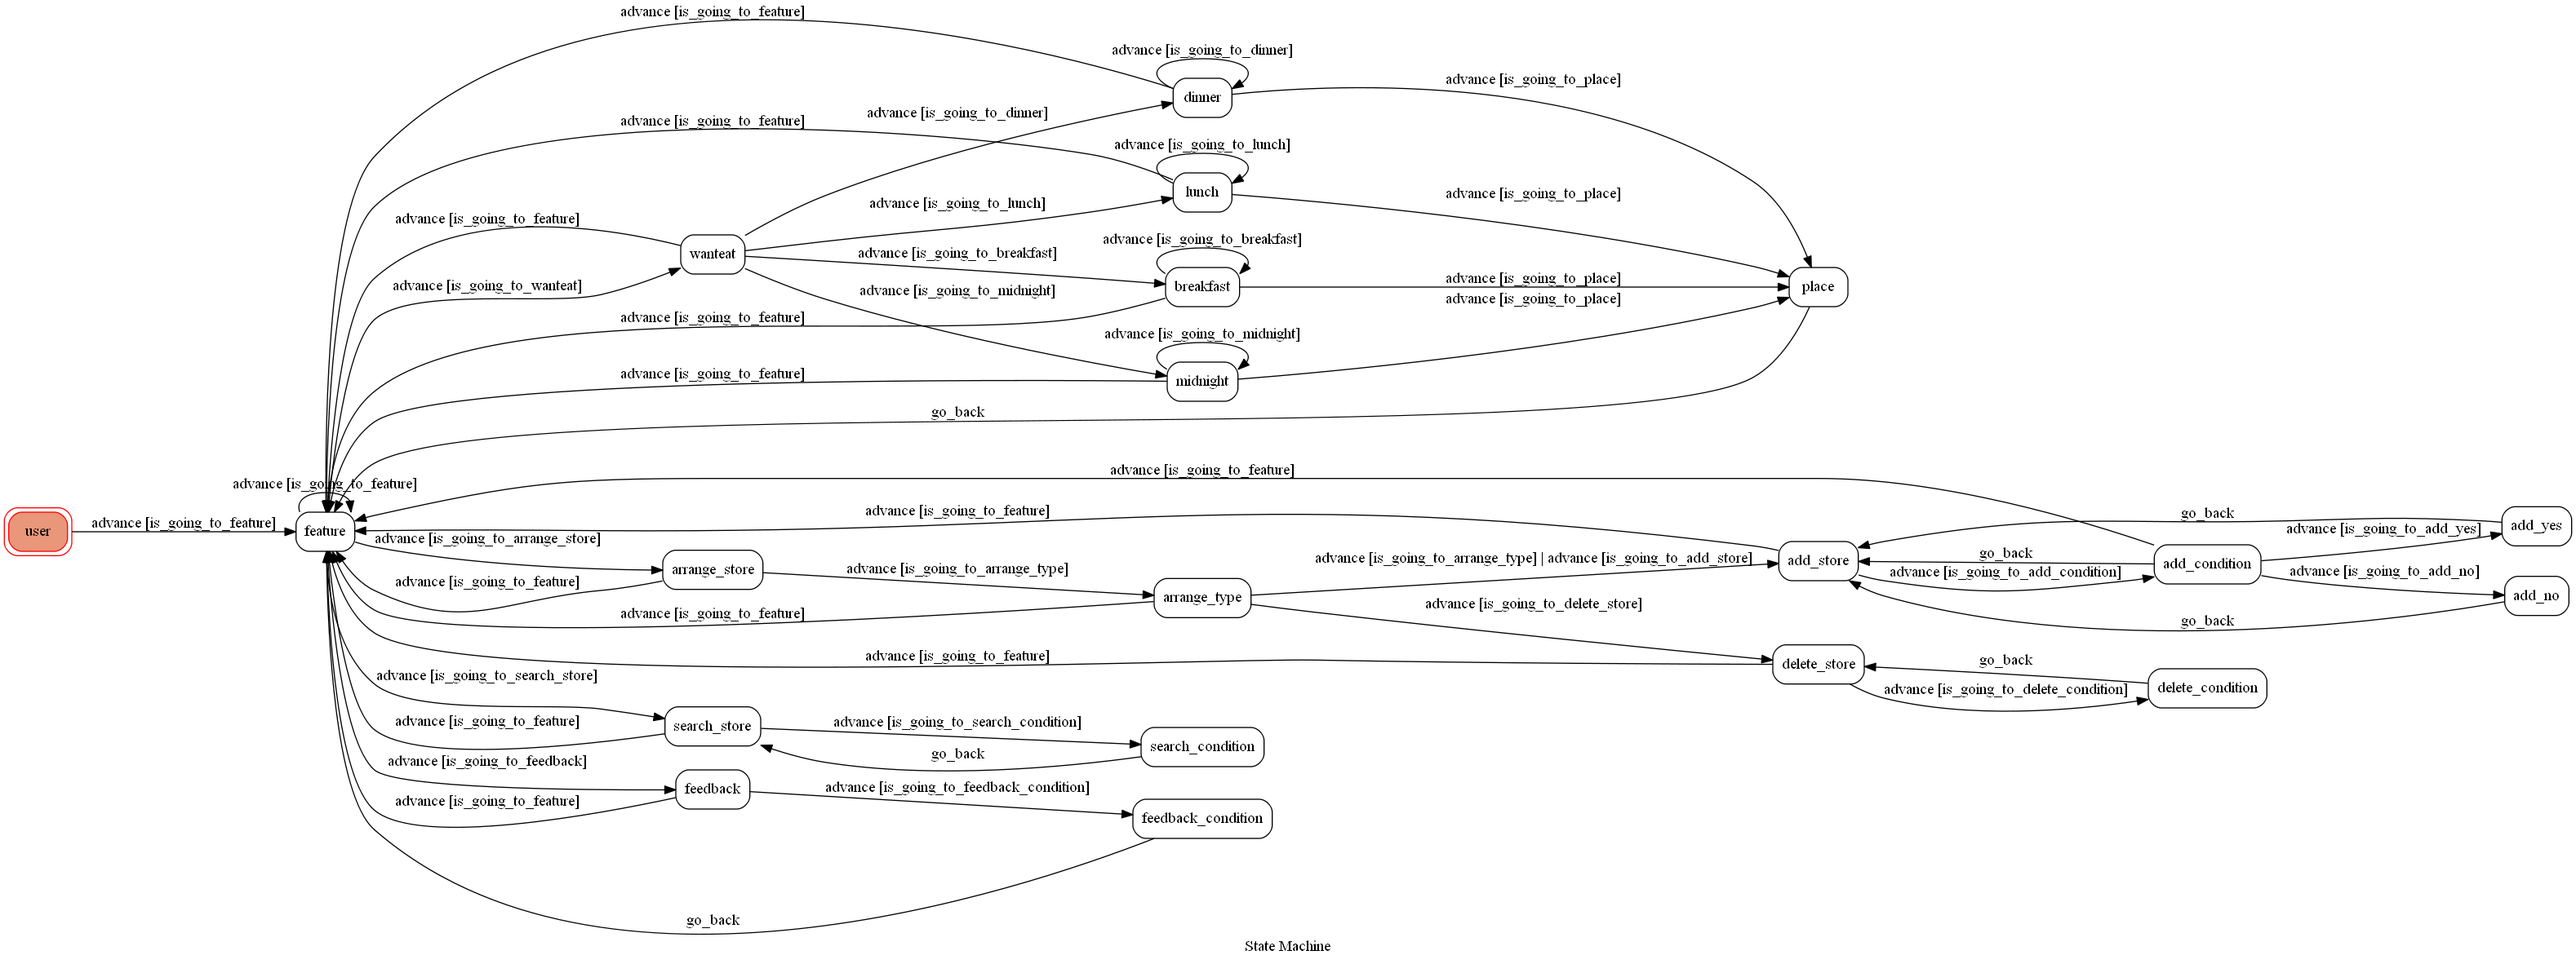
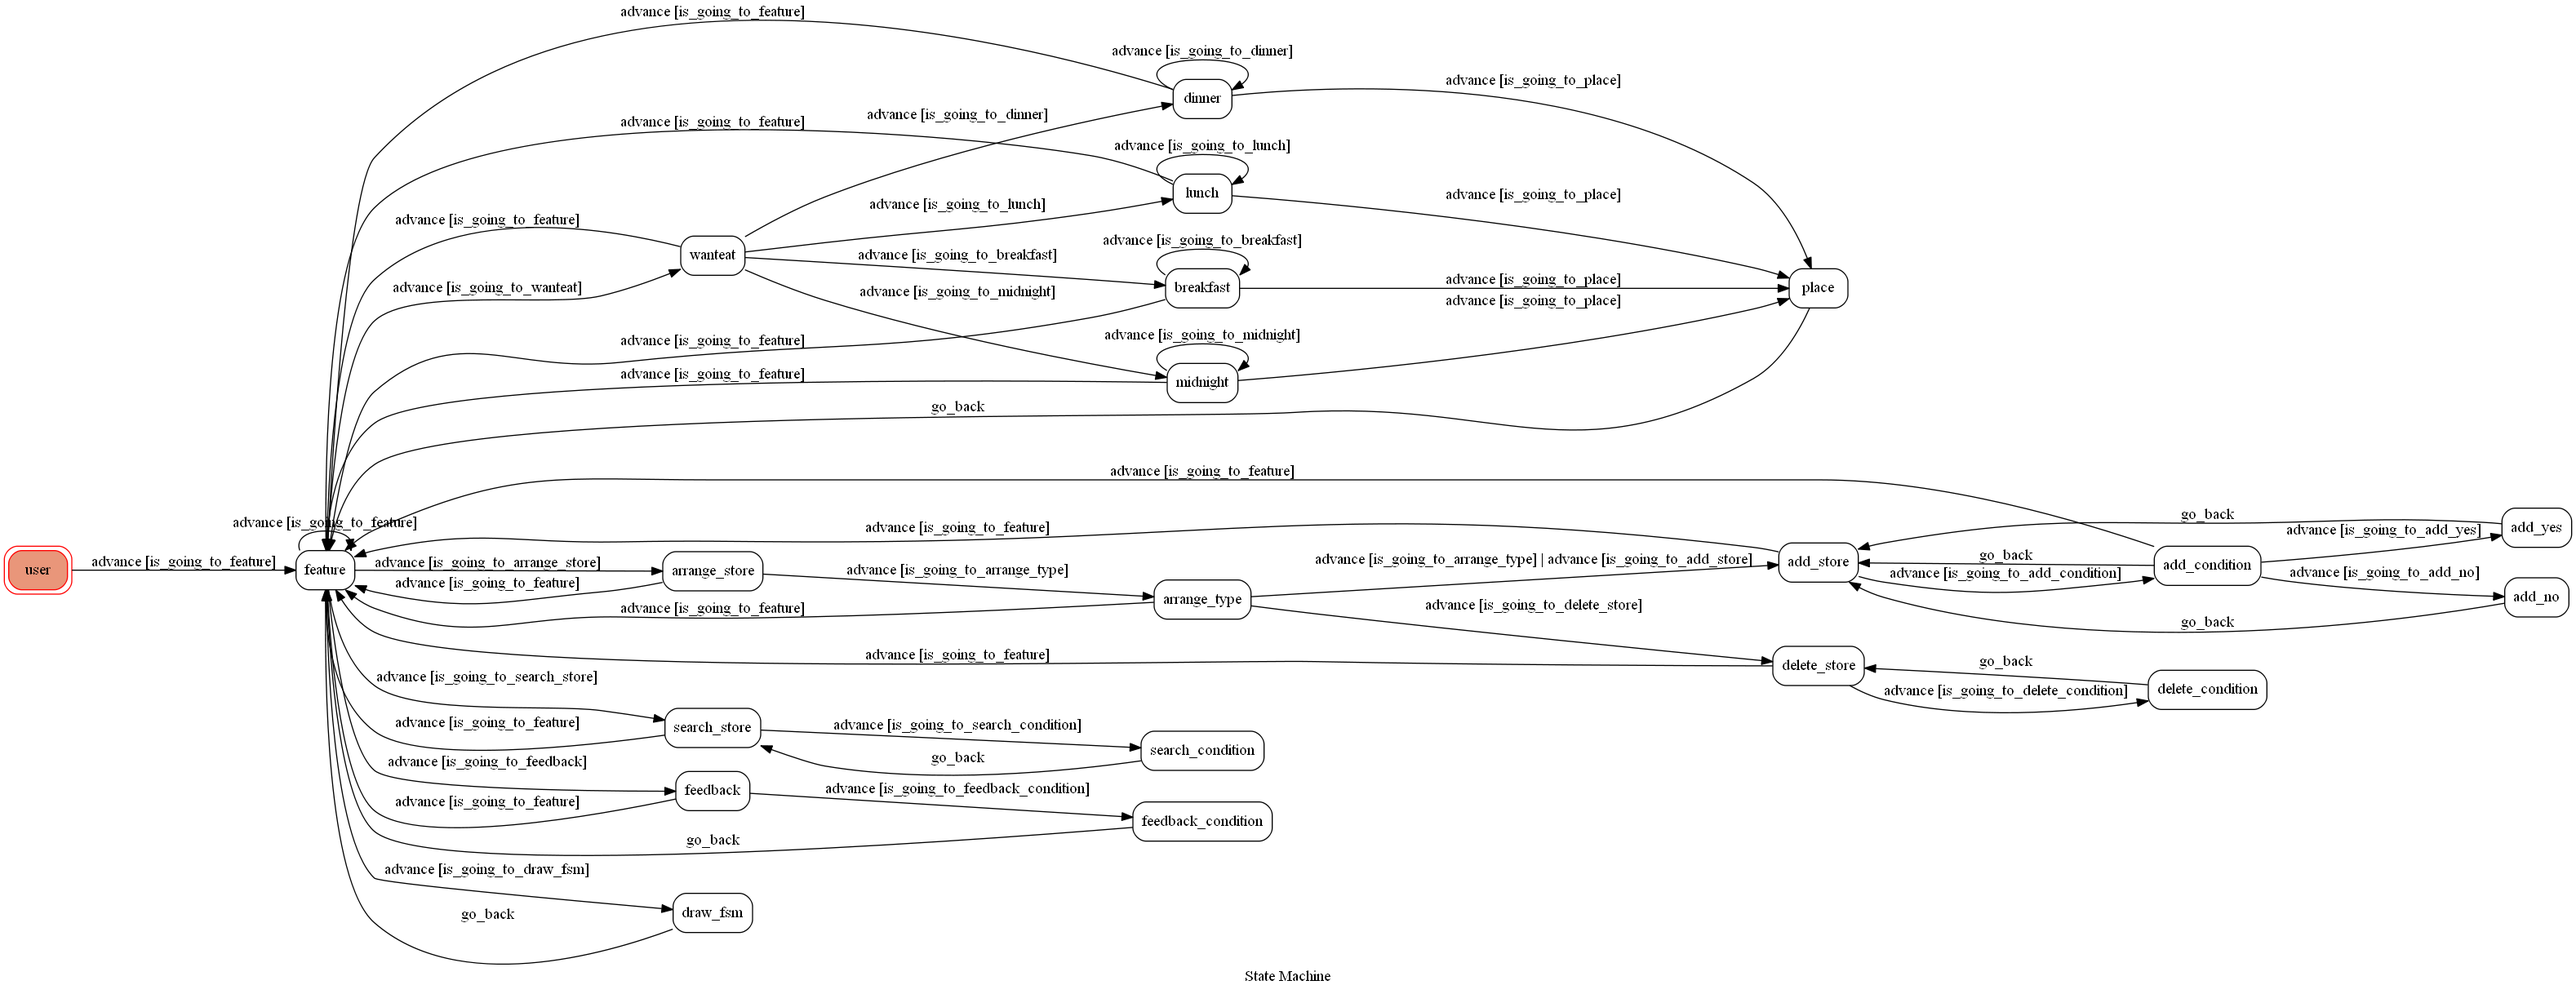
complete 2019.12.09

diff --git a/fsm.py b/fsm.py
@@ -1,7 +1,7 @@
 from transitions.extensions import GraphMachine
 import os
 from linebot import LineBotApi, WebhookParser
-from linebot.models import TemplateSendMessage, ImageCarouselTemplate, ImageCarouselColumn, MessageTemplateAction, ButtonsTemplate, ConfirmTemplate, TextSendMessage
+from linebot.models import TemplateSendMessage, ImageCarouselTemplate, ImageCarouselColumn, MessageTemplateAction, ButtonsTemplate, ConfirmTemplate, TextSendMessage, ImageSendMessage
 
 from utils import send_text_message
 from utils import send_button_message
@@ -39,7 +39,7 @@ arrange_type = -1
 want_add_text = ""
 want_delete_text = ""
 wand_search_text = ""
-
+feedback_text = ""
 class TocMachine(GraphMachine):
     def __init__(self, **machine_configs):
         self.machine = GraphMachine(model=self, **machine_configs)
@@ -48,12 +48,12 @@ class TocMachine(GraphMachine):
         global sheet2
         text = event.message.text
         print(text)
-        sheet2.append_row([event.source.user_id, get_time(), text, 0,self.state])
+        #sheet2.append_row([event.source.user_id, get_time(), text, 0,self.state])
         return text.lower() == "start" or text.lower() == "返回主選單"
 
     def on_enter_feature(self, event):
         print("I'm entering feature")
-        global sheet, sheet2, multi_user_id, multi_user_breakfast, multi_user_lunch, multi_user_dinner, multi_user_midnight, multi_user_randold,multi_user_store_choosed
+        global sheet2, multi_user_id, multi_user_breakfast, multi_user_lunch, multi_user_dinner, multi_user_midnight, multi_user_randold,multi_user_store_choosed
         
         check_exist = 0
         user_id = event.source.user_id
@@ -76,6 +76,7 @@ class TocMachine(GraphMachine):
         multi_user_midnight[multi_user_id.index(user_id)] = []
 
         sheet_dic = sheet.get_all_records()
+        
         for i in range(0,len(sheet_dic)):
             if(sheet_dic[i]["user_id"] == "global" or sheet_dic[i]["user_id"] == user_id):
                 if(sheet_dic[i]["breakfast"] != 0):
@@ -129,7 +130,7 @@ class TocMachine(GraphMachine):
         global sheet2
         text = event.message.text
         print(text)
-        sheet2.append_row([event.source.user_id, get_time(), text, 0,self.state])
+        #sheet2.append_row([event.source.user_id, get_time(), text, 0,self.state])
         return text.lower() == "想吃吃！"
 
     def on_enter_wanteat(self, event):
@@ -172,7 +173,7 @@ class TocMachine(GraphMachine):
     def is_going_to_breakfast(self, event):
         global sheet2
         text = event.message.text
-        sheet2.append_row([event.source.user_id, get_time(), text, 0,self.state])
+        #sheet2.append_row([event.source.user_id, get_time(), text, 0,self.state])
         return text.lower() == "吃早餐！" or text.lower() == "換一家！"
 
     def on_enter_breakfast(self, event):
@@ -222,7 +223,7 @@ class TocMachine(GraphMachine):
     def is_going_to_lunch(self, event):
         global sheet2
         text = event.message.text
-        sheet2.append_row([event.source.user_id, get_time(), text, 0,self.state])
+        #sheet2.append_row([event.source.user_id, get_time(), text, 0,self.state])
         return text.lower() == "吃午餐！" or text.lower() == "換一家！"
 
     def on_enter_lunch(self, event):
@@ -270,7 +271,7 @@ class TocMachine(GraphMachine):
     def is_going_to_dinner(self, event):
         global sheet2
         text = event.message.text
-        sheet2.append_row([event.source.user_id, get_time(), text, 0,self.state])
+        #sheet2.append_row([event.source.user_id, get_time(), text, 0,self.state])
         return text.lower() == "吃晚餐！" or text.lower() == "換一家！"
 
     def on_enter_dinner(self, event):
@@ -318,7 +319,7 @@ class TocMachine(GraphMachine):
     def is_going_to_midnight(self, event):
         global sheet2
         text = event.message.text
-        sheet2.append_row([event.source.user_id, get_time(), text, 0,self.state])
+        #sheet2.append_row([event.source.user_id, get_time(), text, 0,self.state])
         return text.lower() == "吃宵夜！" or text.lower() == "換一家！"
 
     def on_enter_midnight(self, event):
@@ -366,7 +367,7 @@ class TocMachine(GraphMachine):
     def is_going_to_place(self, event):
         global sheet2
         text = event.message.text
-        sheet2.append_row([event.source.user_id, get_time(), text, 0,self.state])
+        #sheet2.append_row([event.source.user_id, get_time(), text, 0,self.state])
         return text.lower() == "獲取店家資訊！"
 
     def on_enter_place(self, event):
@@ -386,7 +387,7 @@ class TocMachine(GraphMachine):
     def is_going_to_arrange_store(self, event):
         global sheet2
         text = event.message.text
-        sheet2.append_row([event.source.user_id, get_time(), text, 0,self.state])
+        #sheet2.append_row([event.source.user_id, get_time(), text, 0,self.state])
         return text.lower() == "新增/刪除店家列表"
 
     def on_enter_arrange_store(self, event):
@@ -421,9 +422,9 @@ class TocMachine(GraphMachine):
         line_bot_api.reply_message(event.reply_token, message)
 
     def is_going_to_arrange_type(self, event):
-        global sheet2
+        global sheet2, arrange_type
         text = event.message.text
-        sheet2.append_row([event.source.user_id, get_time(), text, 0,self.state])
+        #sheet2.append_row([event.source.user_id, get_time(), text, 0,self.state])
         result = False
         if(text.lower() == "早餐"):
             arrange_type = 1
@@ -517,9 +518,9 @@ class TocMachine(GraphMachine):
         line_bot_api.push_message(user_id, template_message)
         
     def is_going_to_add_store(self, event):
-        global sheet2, arrange_type
+        global sheet2
         text = event.message.text
-        sheet2.append_row([event.source.user_id, get_time(), text, 0,self.state])
+        #sheet2.append_row([event.source.user_id, get_time(), text, 0,self.state])
         result = False
         if(text == "新增店家"):
             result = True
@@ -554,7 +555,7 @@ class TocMachine(GraphMachine):
     def is_going_to_add_condition(self, event):
         global sheet2, want_add_text
         want_add_text = event.message.text
-        sheet2.append_row([event.source.user_id, get_time(), want_add_text, 0,self.state])
+        #sheet2.append_row([event.source.user_id, get_time(), want_add_text, 0,self.state])
         result = True
         return result
 
@@ -661,7 +662,7 @@ class TocMachine(GraphMachine):
     def is_going_to_delete_store(self, event):
         global sheet2 ,arrange_type
         text = event.message.text
-        sheet2.append_row([event.source.user_id, get_time(), text, 0,self.state])
+        #sheet2.append_row([event.source.user_id, get_time(), text, 0,self.state])
         result = False
         if(text == "刪除店家"):
             result = True
@@ -696,7 +697,7 @@ class TocMachine(GraphMachine):
     def is_going_to_delete_condition(self, event):
         global sheet2, want_delete_text
         want_delete_text = event.message.text
-        sheet2.append_row([event.source.user_id, get_time(), want_delete_text, 0,self.state])
+        #sheet2.append_row([event.source.user_id, get_time(), want_delete_text, 0,self.state])
         result = True
         return result
 
@@ -774,7 +775,7 @@ class TocMachine(GraphMachine):
     def is_going_to_search_store(self, event):
         global sheet2
         text = event.message.text
-        sheet2.append_row([event.source.user_id, get_time(), text, 0,self.state])
+        #sheet2.append_row([event.source.user_id, get_time(), text, 0,self.state])
         return text.lower() == "查詢店家資訊！"
 
     def on_enter_search_store(self, event):
@@ -809,7 +810,7 @@ class TocMachine(GraphMachine):
     def is_going_to_feedback(self, event):
         global sheet2
         text = event.message.text
-        sheet2.append_row([event.source.user_id, get_time(), text, 0,self.state])
+        #sheet2.append_row([event.source.user_id, get_time(), text, 0,self.state])
         return text.lower() == "意見回饋！"
 
     def on_enter_feedback(self, event):
@@ -820,18 +821,35 @@ class TocMachine(GraphMachine):
         line_bot_api.push_message(user_id, TextSendMessage(text=message))
 
     def is_going_to_feedback_condition(self, event):
-        global sheet2, sheet3
-        text = event.message.text
-        sheet2.append_row([event.source.user_id, get_time(), text, 0,self.state])
-        sheet3.append_row([event.source.user_id, get_time(), text])
+        global sheet2, sheet3, feedback_text
+        feedback_text = event.message.text
+        #sheet2.append_row([event.source.user_id, get_time(), text, 0,self.state])
+        #sheet3.append_row([event.source.user_id, get_time(), text])
         return True
 
     def on_enter_feedback_condition(self, event):
+        global sheet3
         print("I'm entering feedback_condition")
         user_id = event.source.user_id
-
+        sheet3.append_row([event.source.user_id, get_time(), feedback_text])
         message = "郭收到你寶貴的意見囉！"
         line_bot_api.push_message(user_id, TextSendMessage(text=message))
+        self.go_back(event)
+    
+    def is_going_to_draw_fsm(self, event):
+        global sheet2
+        text = event.message.text
+        #sheet2.append_row([event.source.user_id, get_time(), text, 0,self.state])
+        return text.lower() == "fsm"
+
+    def on_enter_draw_fsm(self, event):
+        print("I'm entering draw_fsm")
+        user_id = event.source.user_id
+        message = ImageSendMessage(
+            original_content_url='https://upload.cc/i1/2019/12/09/G92Dx5.png',
+            preview_image_url='https://upload.cc/i1/2019/12/09/G92Dx5.png'
+        )
+        line_bot_api.push_message(user_id, message)
         self.go_back(event)
 
 # if(arrange_type == 1):

diff --git a/app.py b/app.py
@@ -10,12 +10,23 @@ from linebot.models import MessageEvent, TextMessage, TextSendMessage
 from fsm import TocMachine
 from utils import send_text_message
 
+from get_time import get_time
+import gspread
+from oauth2client.service_account import ServiceAccountCredentials
+
 os.environ["PATH"] += os.pathsep + 'C:/Program Files (x86)/Graphviz2.38/bin/'
 
 load_dotenv()
 
 multi_user_id = []
 multi_user_machine = []
+
+scope = ["https://spreadsheets.google.com/feeds",'https://www.googleapis.com/auth/drive']
+creds = ServiceAccountCredentials.from_json_keyfile_name("./auth.json", scope)
+client = gspread.authorize(creds)
+
+spreadsheet_key = "15X-GEDSNyUfA_5JFOkh4LjTdIBeq-rBrEdJ2GPVYGl8"
+sheet2 = client.open_by_key(spreadsheet_key).get_worksheet(1)
 
 machine = TocMachine(states=["user",
             "feature",
@@ -36,7 +47,8 @@ machine = TocMachine(states=["user",
             "search_store",
             "search_condition",
             "feedback",
-            "feedback_condition"],
+            "feedback_condition",
+            "draw_fsm"],
         transitions=[
             {
                 "trigger": "advance",
@@ -165,6 +177,12 @@ machine = TocMachine(states=["user",
                 "conditions": "is_going_to_feedback_condition",
             },
             {
+                "trigger": "advance",
+                "source": "feature",
+                "dest": "draw_fsm",
+                "conditions": "is_going_to_draw_fsm",
+            },
+            {
                 "trigger": "go_back", 
                 "source": ["add_condition","add_yes", "add_no"], 
                 "dest": "add_store",
@@ -181,7 +199,7 @@ machine = TocMachine(states=["user",
             },
             {
                 "trigger": "go_back", 
-                "source": ["place","feedback_condition"], 
+                "source": ["place","feedback_condition", "draw_fsm"], 
                 "dest": "feature",
             },
         ],
@@ -236,7 +254,7 @@ def callback():
 
 @app.route("/webhook", methods=["POST"])
 def webhook_handler():
-    global multi_user_id, multi_user_machine
+    global multi_user_id, multi_user_machine, sheet2
     signature = request.headers["X-Line-Signature"]
     # get request body as text
     body = request.get_data(as_text=True)
@@ -275,7 +293,8 @@ def webhook_handler():
             "search_store",
             "search_condition",
             "feedback",
-            "feedback_condition"],
+            "feedback_condition",
+            "draw_fsm"],
         transitions=[
             {
                 "trigger": "advance",
@@ -404,6 +423,12 @@ def webhook_handler():
                 "conditions": "is_going_to_feedback_condition",
             },
             {
+                "trigger": "advance",
+                "source": "feature",
+                "dest": "draw_fsm",
+                "conditions": "is_going_to_draw_fsm",
+            },
+            {
                 "trigger": "go_back", 
                 "source": ["add_condition","add_yes", "add_no"], 
                 "dest": "add_store",
@@ -420,7 +445,7 @@ def webhook_handler():
             },
             {
                 "trigger": "go_back", 
-                "source": ["place","feedback_condition"], 
+                "source": ["place","feedback_condition", "draw_fsm"], 
                 "dest": "feature",
             },
         ],
@@ -438,7 +463,8 @@ def webhook_handler():
             continue
         print(f"\nFSM STATE: {multi_user_machine[multi_user_id.index(user_id)].state}")
         print(f"REQUEST BODY: \n{body}")
-        
+        sheet2.append_row([event.source.user_id, get_time(), event.message.text, 0,multi_user_machine[multi_user_id.index(user_id)].state])
+
         response = multi_user_machine[multi_user_id.index(user_id)].advance(event)
         if response == False:
             send_text_message(event.reply_token, "輸入錯誤！請輸入\"返回主選單\"或點擊下方選單以繼續使用！")

diff --git a/README.md b/README.md
@@ -81,7 +81,7 @@ Every time `user` state is triggered to `advance` to another state, it will `go_
 * user
 	* Input:"start"
 		* State:feature
-		* Reply:三個按鈕(Carousel template) 1.想吃吃！ 2.查詢店家資訊！ 3.新增/刪除店家列表
+		* Reply:四個按鈕(Carousel template) 1.想吃吃！ 2.查詢店家資訊！ 3.新增/刪除店家列表 4.意見回饋！
 			* Input:選擇按鈕 "想吃吃！"
 				* State:wanteat
 				* Reply:想吃什麼呢？點選後將隨機推薦店家！
@@ -191,6 +191,14 @@ Every time `user` state is triggered to `advance` to another state, it will `go_
 										* State:feature
 							* Input:"回到主選單"
 								* State:feature
+					* Input:"回到主選單"
+						* State:feature
+			* Input:選擇按鈕 "意見回饋！"
+				* State:feedback
+				* Reply:"你有什麼意見ㄇ？"
+					* Input:使用者建議
+						* State:feedback_condition
+						* Reply:"郭收到你寶貴的意見囉！"(回到feature state)
 					* Input:"回到主選單"
 						* State:feature
 			* Input:"回到主選單"
